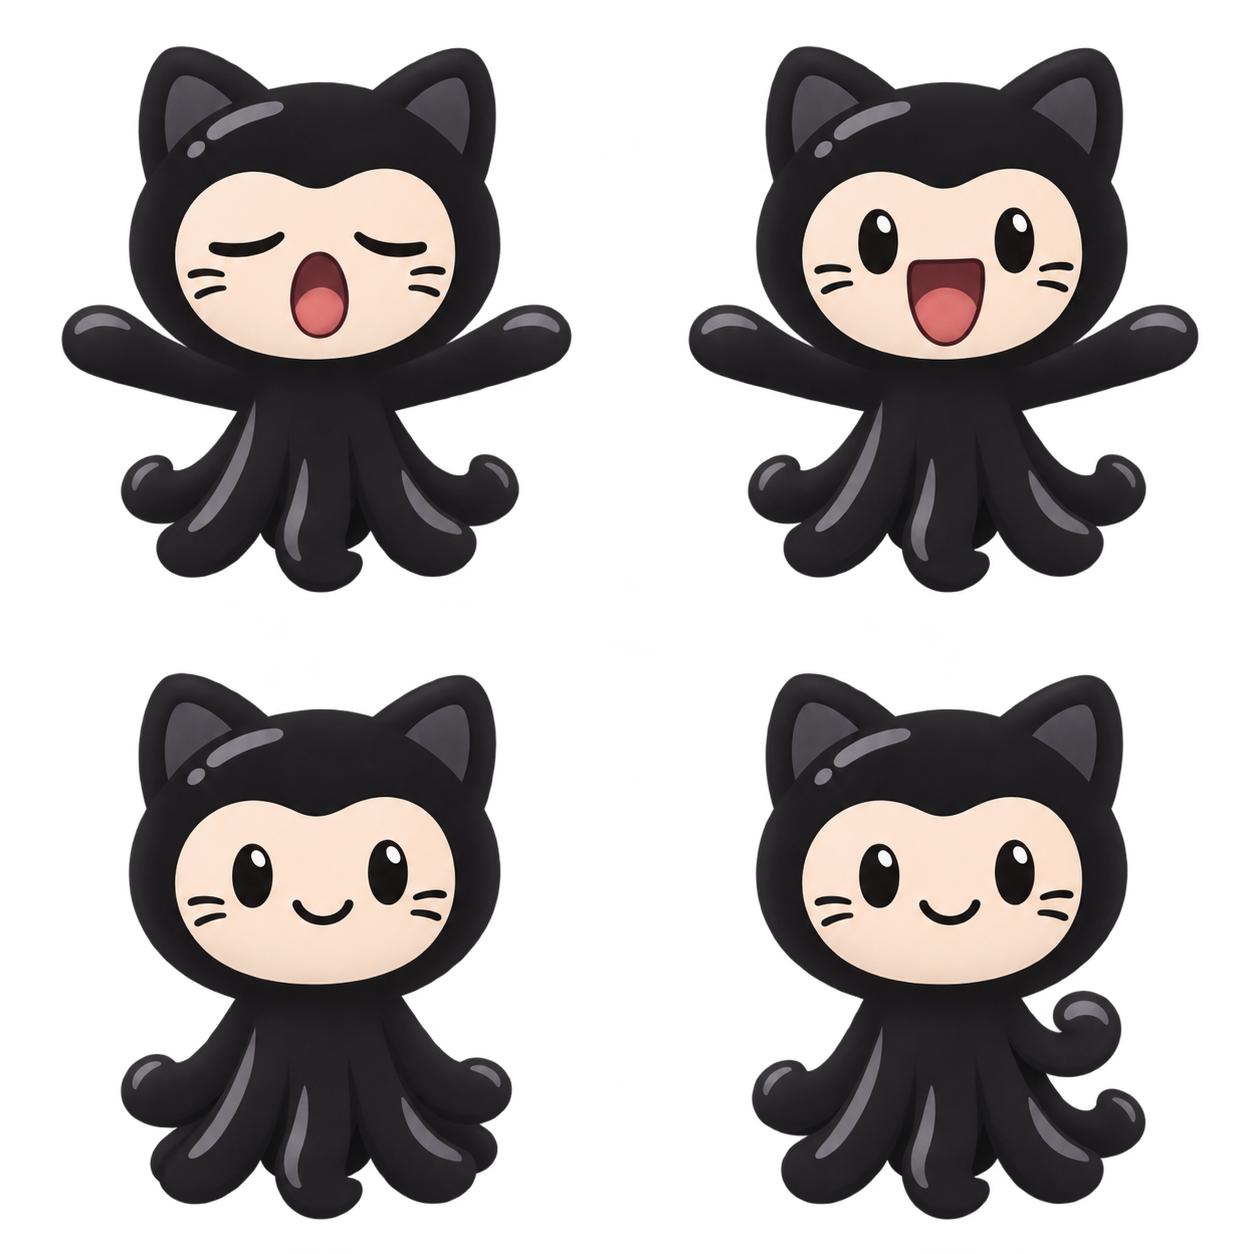
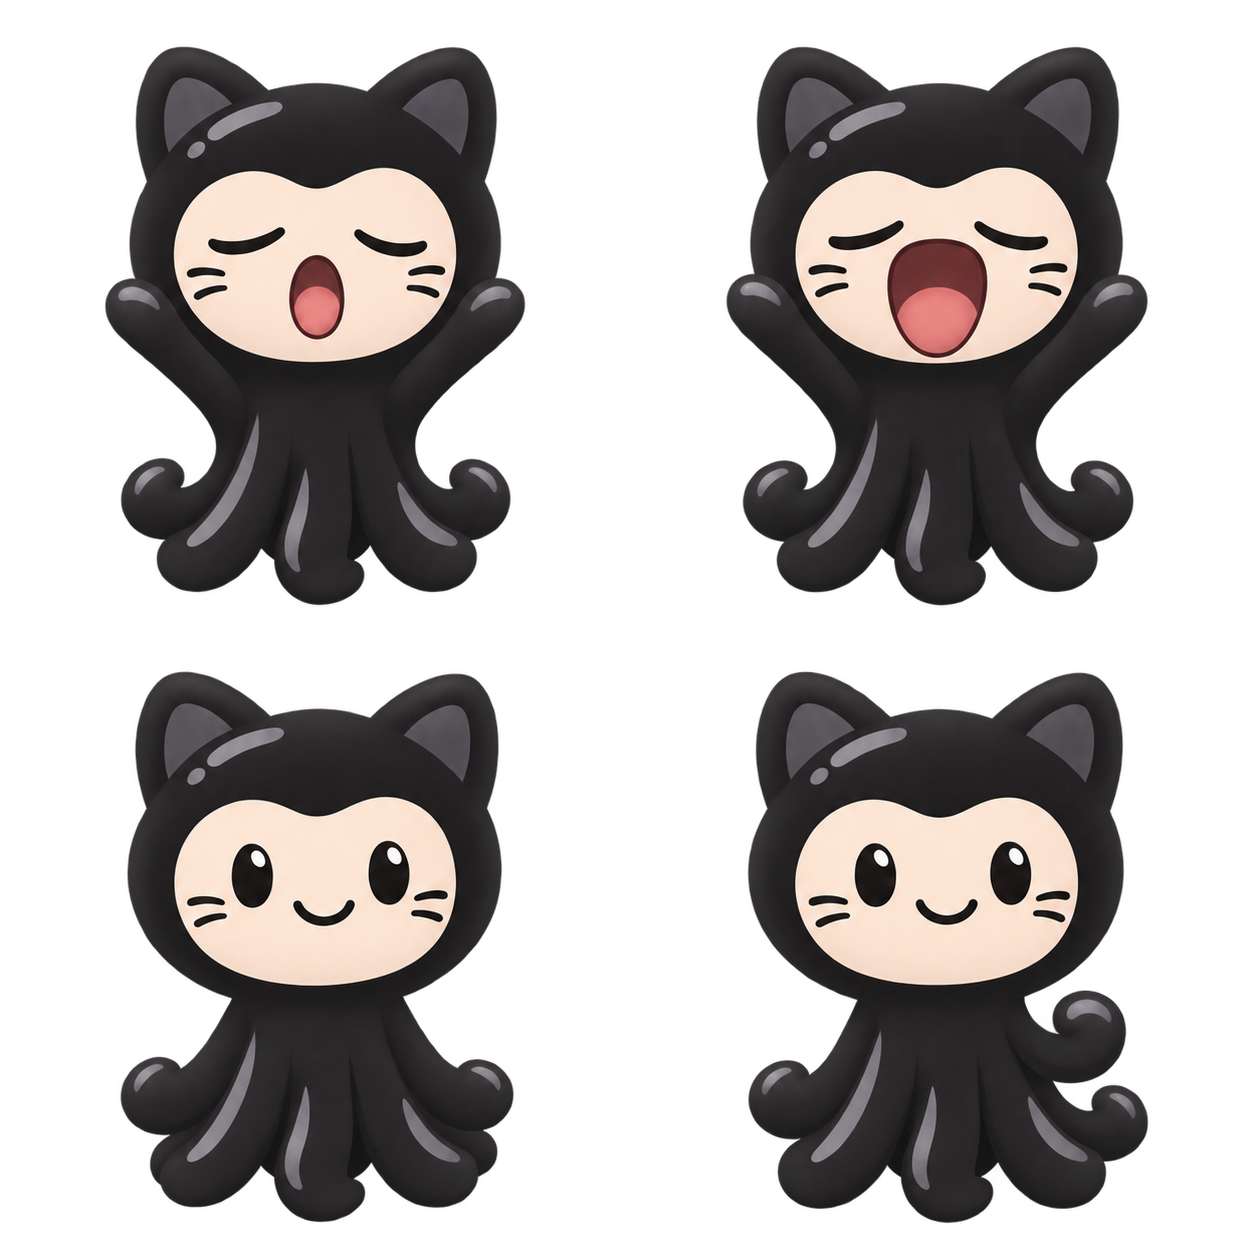
Revise Mona ambient stretch sheet

diff --git a/docs/design/provenance.md b/docs/design/provenance.md
@@ -137,6 +137,10 @@ FX review: retry separates eight sprites with clear cell gaps; smoke 01 has a de
 
 Incident-end A replacement review: 01 and 03 grip the nozzle and aim down-left; 02 squints but does not visibly hold the nozzle and lean is slight. No spray or visible motion marks. Nozzle extends left beyond idle silhouette in 01 and 03; bounds and baseline unverified. No retry.
 
[1 lines of base64/hex data omitted]
+
+Ambient B replacement review: both stretch poses have closed eyes and upward tentacles close to head; mouth is much larger in 02. No visible effect marks. Exact bounds and baseline unverified. No retry.
+
 Both images are 1254×1254 and have alpha channels. Visual review: the helmet in pose 02 is already seated rather than clearly in transit, pose 01 looks forward rather than alert down-left, and pose 00's gaze is not clearly down-left. Helmet-on poses change the apparent head silhouette and scale; the helmet crown and overall bounds require measurement during later packing and review. No runtime frame, baseline, or bounds validation is claimed here. The props sheet places the helmet close to the central cell boundary. No retry or retouch was performed.
 
 Generated on 2026-11-12 using the built-in `image_gen.imagegen` integration under the imagegen skill. The orchestration terminal was launched with `gpt-6.1-sol`; the image integration does not expose its image-model identifier. No alternative model, procedural mascot, downloaded Octocat artwork, official GitHub logo, or credential was used.
